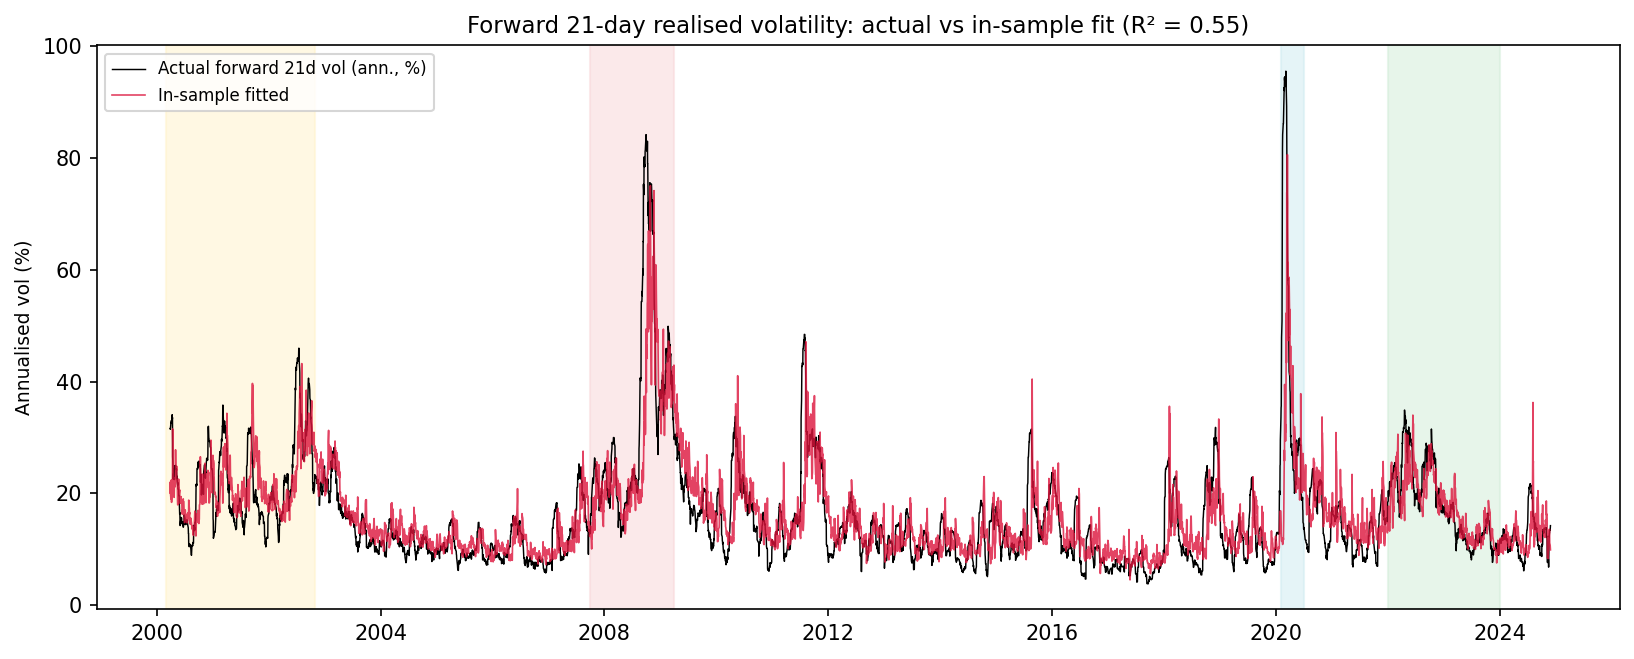
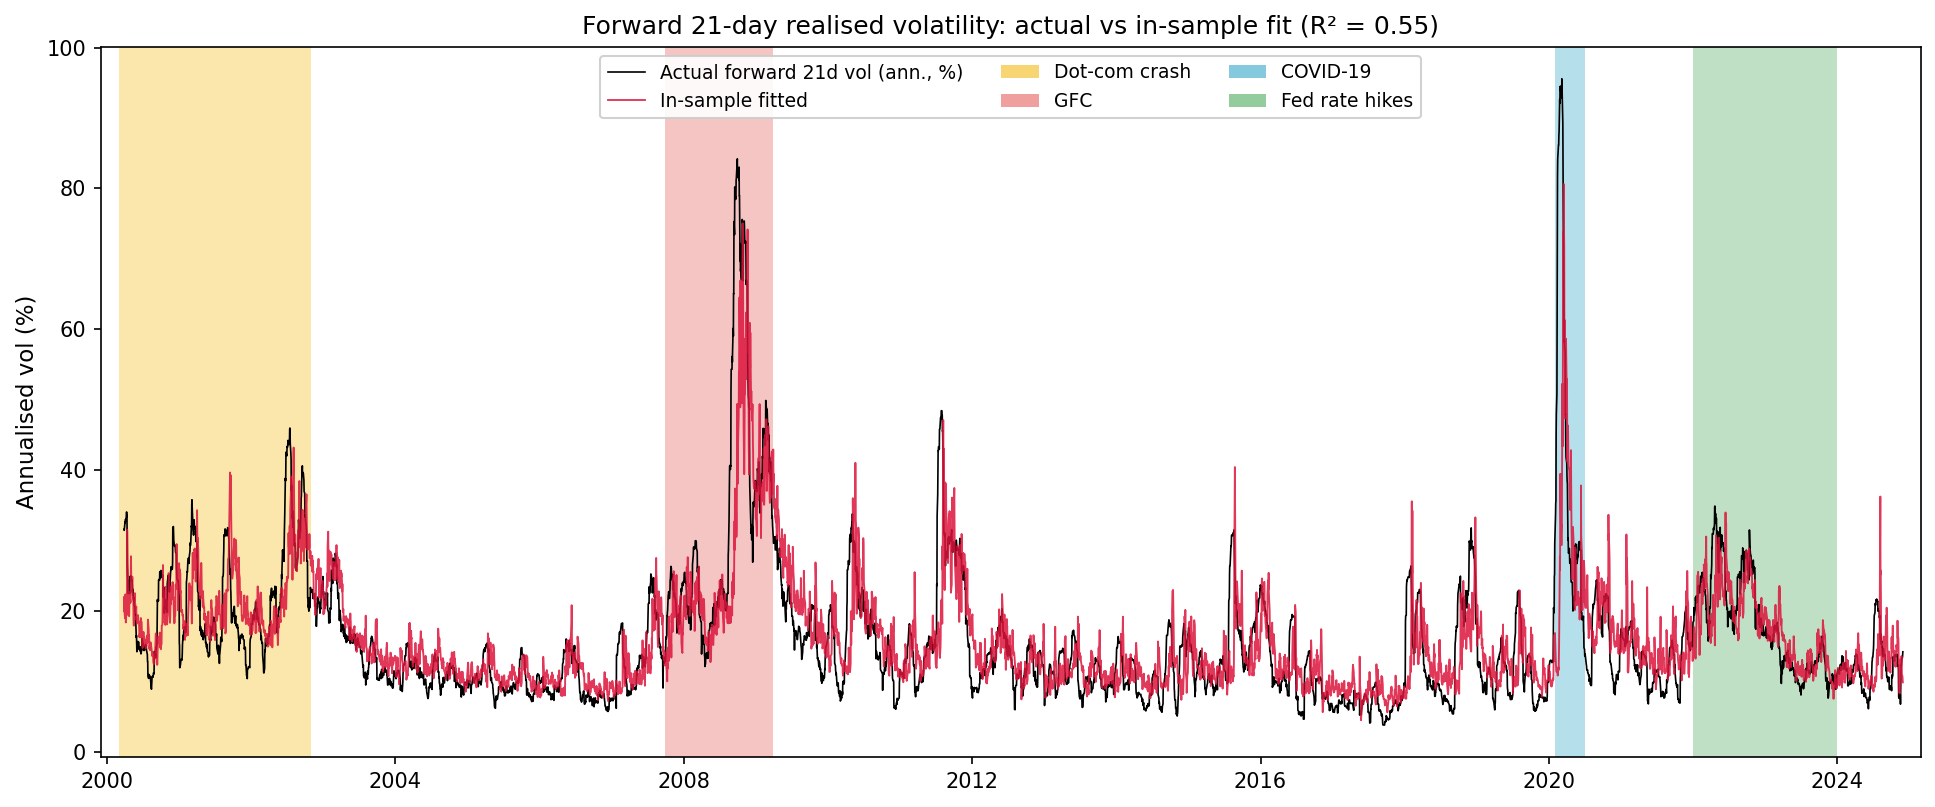
Week 3: rewrite regression write-up and polish figures
- Rewrite Week3_Regression.md for concision and a neutral tone.
- Remove em dashes throughout the week3 writeups and the README.
- Give the lead-up fit figure the same saturated, clearly distinct shock-window
  shading as the factors figure, with a legend for the windows.

diff --git a/week3/code/week3_leadup_regression.py b/week3/code/week3_leadup_regression.py
@@ -1,4 +1,53 @@
 """
+week3_leadup_regression.py — Lead-Up Regression on Forward Risk
+Project: Beyond Black-Scholes: Fitting Lévy Processes to Stock Returns
+
+SCOPE AND GUARDRAILS (read first)
+─────────────────────────────────
+This module does NOT attempt to predict the direction or level of stock
+returns.  That is outside the project and is not reliably possible.  The
+dependent variable here is always a RISK / DISPERSION quantity — forward
+realised volatility — never a return sign or level.  Forecasting the
+dispersion of returns is legitimate because volatility clusters (Cont,
+2001): large moves follow large moves.  This is the same empirical fact
+the whole Basel VaR/ES apparatus rests on.
+
+The analysis is framed as RETROSPECTIVE, IN-SAMPLE ATTRIBUTION, not
+out-of-sample forecasting.  The question answered is:
+
+    "Which observable, daily factors were systematically elevated in the
+     run-up to historical episodes of extreme returns, and do tail-shape
+     factors carry information about future risk beyond plain volatility?"
+
+No out-of-sample skill is claimed, no trading PnL is computed, and no
+held-out validation is presented as a forecasting scorecard.  The factor
+trajectories overlaid on the four shock windows are a descriptive
+diagnostic ("these quantities were already rising"), not an early-warning
+system.
+
+Objectives
+----------
+1. Build a daily feature panel from S&P 500 returns + VIX, with every
+   predictor measured strictly at time t (knowable before the outcome).
+2. Define the outcome as forward realised volatility over the next h days,
+   RV_{t+1..t+h} — a forward RISK measure.
+3. Fit a single OLS model on the full daily sample (n ≈ 6,000), with
+   Newey–West HAC standard errors to correct for the serial correlation
+   induced by overlapping forward windows.
+4. Quantify whether tail-shape factors (rolling excess kurtosis, rolling
+   skewness, drawdown) add explanatory power BEYOND a volatility-only
+   baseline — the incremental-R² result is the bridge back to the Lévy
+   tail story.
+5. Produce a retrospective lead-up table: the average standardised level
+   of each factor in the 21 trading days before each shock window.
+
+Bridge to the Lévy framing
+--------------------------
+Two predictors — rolling excess kurtosis (kurt21) and rolling skewness
+(skew21) — are short-window empirical analogues of the VG/NIG tail and
+asymmetry parameters.  Including them lets the model speak the project's
+own vocabulary: it is the dynamics of the *risk environment*, expressed in
+tail terms, that the static-Gaussian risk numbers fail to capture.
 
 Run standalone:
     python week3_leadup_regression.py
@@ -309,10 +358,21 @@ def _save_fig(fig, save_dir, filename):
         print(f"  Saved → {path}")
 
 
-def _shade_shocks(ax, periods):
+# Saturated shock-window shading. The shared SHOCK_COLOURS pastels wash out once
+# a PNG is flattened to RGB-on-white, so the lead-up figures use stronger, clearly
+# distinct colours.
+SHADE_COLOURS = {
+    "Dot-com crash":  "#f4b400",   # amber
+    "GFC":            "#e2504e",   # red
+    "COVID-19":       "#1f9ec4",   # cyan
+    "Fed rate hikes": "#3fa34d",   # green
+}
+
+
+def _shade_shocks(ax, periods, alpha=0.33):
     for name, (start, end) in periods.items():
         ax.axvspan(pd.Timestamp(start), pd.Timestamp(end),
-                   color=SHOCK_COLOURS[name], alpha=0.55, zorder=0)
+                   color=SHADE_COLOURS[name], alpha=alpha, lw=0, zorder=0)
 
 
 def make_leadup_plots(panel_df, std_full, horizon, save_dir=None):
@@ -323,27 +383,16 @@ def make_leadup_plots(panel_df, std_full, horizon, save_dir=None):
     z, _, _ = _standardise(panel_df[_FACTOR_KEYS])
     show = ["rv21", "kurt21", "dvix5", "ddown"]
     show_lbl = {k: dict(_FACTORS)[k] for k in show}
-    # Saturated shading: the shared SHOCK_COLOURS pastels wash out once the
-    # PNG is flattened to RGB-on-white, so the four windows are given stronger,
-    # clearly distinct colours here.
-    shade = {
-        "Dot-com crash":  "#f4b400",   # amber
-        "GFC":            "#e2504e",   # red
-        "COVID-19":       "#1f9ec4",   # cyan
-        "Fed rate hikes": "#3fa34d",   # green
-    }
     fig1, axes = plt.subplots(len(show), 1, figsize=(13, 11), sharex=True)
     for ax, kkey in zip(axes, show):
-        for name, (start, end) in periods.items():
-            ax.axvspan(pd.Timestamp(start), pd.Timestamp(end),
-                       color=shade[name], alpha=0.33, lw=0, zorder=0)
+        _shade_shocks(ax, periods)
         ax.plot(z.index, z[kkey].values, color="#111111", lw=1.0, zorder=3)
         ax.axhline(0, color="gray", lw=0.7, ls=":", zorder=2)
         ax.grid(axis="y", color="0.9", lw=0.6, zorder=1)
         ax.set_ylabel(show_lbl[kkey], fontsize=12)
         ax.set_ylim(-3.5, 6)
         ax.margins(x=0.01)
-    handles = [mpatches.Patch(facecolor=shade[n], alpha=0.55, label=n)
+    handles = [mpatches.Patch(facecolor=SHADE_COLOURS[n], alpha=0.55, label=n)
                for n in periods]
     fig1.suptitle("Standardised risk factors over time (shaded = shock windows)",
                   fontsize=13, y=0.995)
@@ -360,17 +409,22 @@ def make_leadup_plots(panel_df, std_full, horizon, save_dir=None):
     # refit raw full model to get fitted values
     full_raw = ols_hac(Xf, panel_df["fwd_rv"].values, horizon)
     fitted = Xc @ full_raw["beta"]
-    fig2, ax = plt.subplots(figsize=(11, 4.5))
+    fig2, ax = plt.subplots(figsize=(13, 5.5))
     _shade_shocks(ax, periods)
     ax.plot(panel_df.index, panel_df["fwd_rv"].values * 100,
-            color="black", lw=0.7, label="Actual forward 21d vol (ann., %)")
+            color="black", lw=0.8, label="Actual forward 21d vol (ann., %)")
     ax.plot(panel_df.index, fitted * 100,
-            color="crimson", lw=0.8, alpha=0.8, label="In-sample fitted")
-    ax.set_ylabel("Annualised vol (%)", fontsize=9)
+            color="crimson", lw=0.9, alpha=0.85, label="In-sample fitted")
+    ax.set_ylabel("Annualised vol (%)", fontsize=11)
+    ax.margins(x=0.01)
     ax.set_title(
         f"Forward {horizon}-day realised volatility: actual vs in-sample fit "
-        f"(R² = {full_raw['r2']:.2f})", fontsize=11)
-    ax.legend(fontsize=8, loc="upper left")
+        f"(R² = {full_raw['r2']:.2f})", fontsize=12)
+    line_handles, _ = ax.get_legend_handles_labels()
+    shock_handles = [mpatches.Patch(facecolor=SHADE_COLOURS[n], alpha=0.55, label=n)
+                     for n in periods]
+    ax.legend(handles=line_handles + shock_handles, fontsize=9,
+              loc="upper center", ncol=3, framealpha=0.9)
     fig2.tight_layout()
     _save_fig(fig2, save_dir, "week3_leadup_fit.png")
     plt.close(fig2)

diff --git a/week3/writeup/Week3_Results.md b/week3/writeup/Week3_Results.md
@@ -15,10 +15,10 @@ Tables 1 and 3 carry the Week 2 Gaussian and Student-t results forward. Tables 2
 | Parameter | Estimate | Standard Error | t-statistic |
 |-----------|----------|----------------|-------------|
 | μ (daily drift) | [phone redacted] | 0.000154 | 1.45 |
-| σ (scale) | 0.012234 | 0.000109 | — |
-| Log-likelihood | 18,764.3 | — | — |
-| AIC | −37,524.5 | — | — |
-| BIC | −37,511.0 | — | — |
+| σ (scale) | 0.012234 | 0.000109 | n/a |
+| Log-likelihood | 18,764.3 | n/a | n/a |
+| AIC | −37,524.5 | n/a | n/a |
+| BIC | −37,511.0 | n/a | n/a |
 
 **Table 2. Laplace MLE (symmetric VG special case: θ = 0, ν = 1).**
 
@@ -26,9 +26,9 @@ Tables 1 and 3 carry the Week 2 Gaussian and Student-t results forward. Tables 2
 |-----------|----------|----------------|
 | μ (location) | [phone redacted] | 0.000102 |
 | b (scale) | 0.008078 | 0.000102 |
-| Log-likelihood | 19,649.9 | — |
-| AIC | −39,295.7 | — |
-| BIC | −39,282.2 | — |
+| Log-likelihood | 19,649.9 | n/a |
+| AIC | −39,295.7 | n/a |
+| BIC | −39,282.2 | n/a |
 
 The Laplace closed-form MLE sets μ to the sample median and b to the mean absolute deviation about it. Its log-likelihood of 19,649.9 beats the Gaussian by 885.6 and falls only 15.6 short of the full VG, which frees the two parameters (θ and ν) that the Laplace holds fixed. A likelihood-ratio test of that restriction gives 31.2 on 2 degrees of freedom (p < 0.001), so the asymmetry and variance-rate freedom are real, but small next to the 885-unit gain the exponential tails alone give.
 
@@ -37,11 +37,11 @@ The Laplace closed-form MLE sets μ to the sample median and b to the mean absol
 | Parameter | Estimate | Standard Error | 95% CI |
 |-----------|----------|----------------|--------|
 | ν (degrees of freedom) | 2.648 | 0.110 | (2.43, 2.87) |
-| μ (location) | [phone redacted] | 0.000110 | — |
-| σ (scale) | 0.007077 | 0.000128 | — |
-| Log-likelihood | 19,666.7 | — | — |
-| AIC | −39,327.5 | — | — |
-| BIC | −39,307.2 | — | — |
+| μ (location) | [phone redacted] | 0.000110 | n/a |
+| σ (scale) | 0.007077 | 0.000128 | n/a |
+| Log-likelihood | 19,666.7 | n/a | n/a |
+| AIC | −39,327.5 | n/a | n/a |
+| BIC | −39,307.2 | n/a | n/a |
 
 **Table 4. Variance-Gamma MLE.**
 
@@ -51,9 +51,9 @@ The Laplace closed-form MLE sets μ to the sample median and b to the mean absol
 | θ (asymmetry) | −0.000684 | 0.000149 |
 | ν (variance rate) | 1.17306 | 0.043087 |
 | μ (location) | [phone redacted] | 0.000028 |
-| Log-likelihood | 19,665.5 | — |
-| AIC | −39,322.9 | — |
-| BIC | −39,296.0 | — |
+| Log-likelihood | 19,665.5 | n/a |
+| AIC | −39,322.9 | n/a |
+| BIC | −39,296.0 | n/a |
 
 The VG log-likelihood of 19,665.5 is almost identical to the Student-t's 19,666.7 despite two extra parameters, so its AIC is slightly worse. The negative θ confirms left skew, and the variance rate ν = 1.173 is well above zero, so the Gamma time-change is doing real work rather than collapsing toward the Gaussian limit.
 
@@ -65,9 +65,9 @@ The VG log-likelihood of 19,665.5 is almost identical to the Student-t's 19,666.
 | β (asymmetry) | −6.095 | 1.498 |
 | δ (scale) | 0.007574 | 0.000217 |
 | μ (location) | [phone redacted] | 0.000150 |
-| Log-likelihood | 19,691.7 | — |
-| AIC | −39,375.3 | — |
-| BIC | −39,348.4 | — |
+| Log-likelihood | 19,691.7 | n/a |
+| AIC | −39,375.3 | n/a |
+| BIC | −39,348.4 | n/a |
 
 NIG achieves the highest log-likelihood of the five models. Its AIC improvement over the Gaussian is 1,851 units, 48 better than the Student-t. Negative β confirms left skew, and α = 52.3 indicates heavy tails; the values of 17–26 it falls to during the GFC and COVID (Section 5) show how much deeper the tails run in acute crises.
 
@@ -101,7 +101,7 @@ Gaussian, Laplace and Student-t use the one-sample test (analytical CDF); VG and
 
 | Model | Parameters | Log-lik | AIC | BIC | ΔAIC vs Gaussian |
 |-------|------------|---------|-----|-----|------------------|
-| Gaussian | 2 | 18,764.3 | −37,524.5 | −37,511.0 | — |
+| Gaussian | 2 | 18,764.3 | −37,524.5 | −37,511.0 | n/a |
 | Laplace | 2 | 19,649.9 | −39,295.7 | −39,282.2 | −1,771.2 |
 | Student-t | 3 | 19,666.7 | −39,327.5 | −39,307.2 | −1,802.9 |
 | VG | 4 | 19,665.5 | −39,322.9 | −39,296.0 | −1,798.4 |

diff --git a/week3/writeup/Week3_Regression.md b/week3/writeup/Week3_Regression.md
@@ -6,9 +6,9 @@ This regression studies how the risk environment evolves. It models forward 21-d
 
 ## 1. The model
 
-**Outcome.** The dependent variable is forward realised volatility over the next h = 21 trading days (about one calendar month): for each day t, the square root of the summed squared daily log-returns over days t+1 to t+h, scaled by 252/h and annualised. Squared returns measure the magnitude of moves regardless of sign.
+The dependent variable is forward realised volatility over the next h = 21 trading days, about one calendar month. For each day t it is the square root of the summed squared daily log-returns over days t+1 to t+h, scaled by 252/h and annualised. Squared returns measure the magnitude of moves regardless of sign.
 
-**Predictors.** Every predictor is built only from information available up to and including day t. Two of them — rolling skewness and rolling excess kurtosis — are short-window empirical analogues of the VG and NIG asymmetry and tail-heaviness parameters estimated elsewhere in Week 3, so the model can ask whether the recent tail shape, not just the recent volatility, carries information about the risk to come.
+Every predictor is built only from information available up to and including day t. Two of them, rolling skewness and rolling excess kurtosis, are short-window empirical analogues of the VG and NIG asymmetry and tail-heaviness parameters estimated elsewhere in Week 3, so the model can ask whether the recent tail shape, not just the recent volatility, carries information about the risk to come.
 
 **Table 1. The seven lead-up predictors. All are trailing quantities measured at day t.**
 
@@ -22,13 +22,13 @@ This regression studies how the risk environment evolves. It models forward 21-d
 | Rolling kurtosis (21d) | Excess kurtosis of returns over the last 21 days (tail proxy) |
 | Drawdown (252d) | Current price relative to its trailing 252-day peak (≤ 0) |
 
-**Estimation.** A single OLS regression on the full daily sample. Consecutive forward windows overlap (day t and day t+1 share 20 of their 21 days), so the residuals are strongly autocorrelated; all standard errors are Newey-West HAC (Bartlett kernel, bandwidth 21, the overlap length). Coefficients are reported in standardised (z-score) form, so a coefficient of 0.40 means a one-standard-deviation rise in the factor goes with a 0.40-standard-deviation rise in forward volatility, holding the others fixed.
+The model is a single OLS regression on the full daily sample. Consecutive forward windows overlap, since day t and day t+1 share 20 of their 21 days, so the residuals are strongly autocorrelated; all standard errors are Newey-West HAC (Bartlett kernel, bandwidth 21, the overlap length). Coefficients are reported in standardised (z-score) form, so a coefficient of 0.40 means a one-standard-deviation rise in the factor goes with a 0.40-standard-deviation rise in forward volatility, holding the others fixed.
 
 ---
 
 ## 2. Results
 
-A baseline using only trailing 21-day volatility explains forward volatility with R² = 0.441, as expected from volatility clustering. Adding the other six factors raises R² to 0.553. The extra 0.112 — about eleven percentage points — comes from the implied-volatility, shock, tail and drawdown factors over and above plain volatility persistence. The risk environment is better described with tail-aware factors than with volatility alone, the same message the Lévy models give for the static distribution, now in a dynamic form.
+A baseline using only trailing 21-day volatility explains forward volatility with R² = 0.441, as expected from volatility clustering. Adding the other six factors raises R² to 0.553. The extra 0.112, about eleven percentage points, comes from the implied-volatility, shock, tail and drawdown factors over and above plain volatility persistence. The risk environment is better described with tail-aware factors than with volatility alone, the same message the Lévy models give for the static distribution, now in a dynamic form.
 
 **Table 2. Variance in forward 21-day realised volatility explained. n = 6,207.**
 
@@ -36,9 +36,9 @@ A baseline using only trailing 21-day volatility explains forward volatility wit
 |-------|-----------|----|-------------|
 | Baseline | Trailing 21d vol only | 0.441 | 0.441 |
 | Full | All seven lead-up factors | 0.553 | 0.552 |
-| Increment | Tail / VIX / drawdown factors | +0.112 | — |
+| Increment | Tail / VIX / drawdown factors | +0.112 | n/a |
 
-The VIX level is the strongest factor (+0.40, t = 4.2): options-implied volatility is the market's own forward-looking estimate of dispersion. The 5-day VIX change is also positive and significant (+0.12, t = 2.4), as is the latest absolute return (+0.05, t = 2.2). Two coefficients are worth a note. Drawdown loads negatively (−0.11, t = −1.8): the nearer the market sits to its trailing peak, the higher the volatility that tends to follow. Rolling excess kurtosis also loads negatively (−0.04, t = −2.1) — once volatility and the VIX are in the model, a kurtosis spike tends to mark a jump that has already happened rather than risk still building. Rolling skewness is indistinguishable from zero.
+The VIX level is the strongest factor (+0.40, t = 4.2): options-implied volatility is the market's own forward-looking estimate of dispersion. The 5-day VIX change is also positive and significant (+0.12, t = 2.4), as is the latest absolute return (+0.05, t = 2.2). The drawdown and rolling-kurtosis loadings are the interesting ones. Drawdown is negative (−0.11, t = −1.8): the nearer the market sits to its trailing peak, the higher the volatility that tends to follow. Rolling excess kurtosis is also negative (−0.04, t = −2.1); once volatility and the VIX are in the model, a kurtosis spike tends to mark a jump that has already happened rather than risk still building. Rolling skewness is indistinguishable from zero.
 
 **Table 3. Standardised coefficients of the full model, Newey-West HAC standard errors (bandwidth 21). The intercept is zero by construction and is omitted.**
 
@@ -66,7 +66,7 @@ The VIX level is the strongest factor (+0.40, t = 4.2): options-implied volatili
 
 For each shock window, Table 4 reports the average standardised level of each factor over the 21 trading days immediately before the window began. Because the factors are z-scored over the full sample, +0.7 means the factor stood 0.7 sample standard deviations above its typical level going into the episode, and a negative value means it was below.
 
-The clearest pattern is drawdown, positive before all three episodes (+0.34, +0.68, +0.64): each shock began from a market sitting near its trailing peak rather than from an already depressed level. Beyond that the picture is mixed. The Global Financial Crisis was preceded by mildly elevated volatility and VIX (+0.39 and +0.30), consistent with a slow build-up, whereas COVID-19 was the opposite — volatility, the VIX and skewness were all well below average in the weeks before the crash (−0.80, −0.70, −0.57) — because that shock erupted from an unusually calm market.
+The clearest pattern is drawdown, positive before all three episodes (+0.34, +0.68, +0.64): each shock began from a market sitting near its trailing peak rather than from an already depressed level. Beyond that the picture is mixed. The Global Financial Crisis was preceded by mildly elevated volatility and VIX (+0.39 and +0.30), consistent with a slow build-up. COVID-19 was the opposite: volatility, the VIX and skewness were all well below average in the weeks before the crash (−0.80, −0.70, −0.57), because that shock erupted from an unusually calm market.
 
 **Table 4. Mean standardised factor level in the 21 trading days before each shock window (z-scores).**
 
@@ -86,4 +86,4 @@ The dot-com crash is omitted because its start date (March 2000) falls inside th
 
 ## 4. Limitations
 
-The estimates are in-sample. The predictors are correlated — most obviously trailing volatility and the VIX level — so the coefficients are partial associations rather than independent effects. The overlapping forward windows are the reason for the Newey-West standard errors, and they make the effective sample smaller than the nominal 6,207 observations. The 21-day horizon is a modelling choice; a shorter or longer one shifts the relative weight of the fast factors (the VIX change, the latest absolute return) and the slow ones (drawdown).
+The estimates are in-sample. The predictors are correlated (most obviously trailing volatility and the VIX level), so the coefficients are partial associations rather than independent effects. The overlapping forward windows are the reason for the Newey-West standard errors, and they make the effective sample smaller than the nominal 6,207 observations. The 21-day horizon is a modelling choice; a shorter or longer one shifts the relative weight of the fast factors (the VIX change, the latest absolute return) and the slow ones (drawdown).

diff --git a/README.md b/README.md
@@ -78,7 +78,7 @@ lead-up regression on forward risk. Write-ups: `Week3_Results.md` (the model
 comparison) and `Week3_Regression.md` (the lead-up regression). Key findings:
 
 - The Laplace (double-exponential), the symmetric VG special case (θ = 0, ν = 1),
-  reaches ΔAIC −1,771 with only two parameters — 96% of the four-parameter NIG's
+  reaches ΔAIC −1,771 with only two parameters, 96% of the four-parameter NIG's
   gain over the Gaussian. Most of the improvement over the Gaussian comes from
   exponential rather than thin tails.
 - NIG is the best fit overall (ΔAIC −1,851) and the only model not rejected by KS.